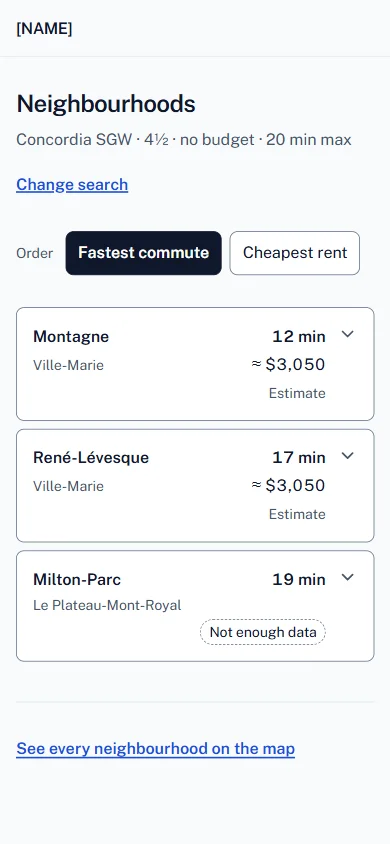
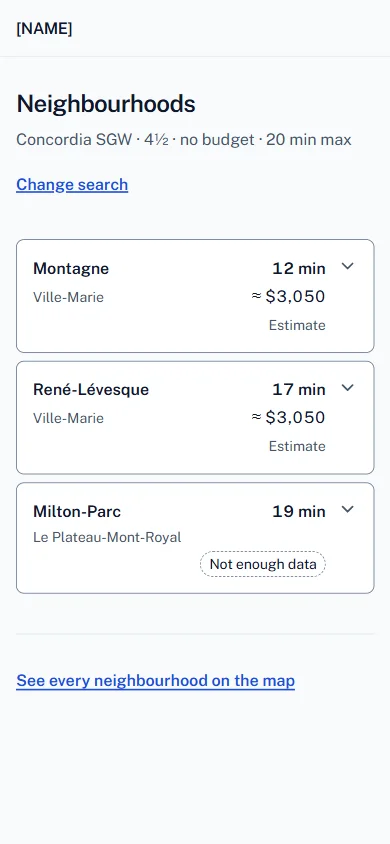
fix(web): pr-reviewer: commute order without a budget; no typed numbers
- No budget: no cheapest toggle, commute order even with sort=rent
  (decision 8; the form says "sort by commute only"). Test updated.
- 10% from one constant (SLIGHTLY_OVER_PCT); the 2 h limit from
  commute.json; access-adjustment minutes text in the strings file.
- Empty states: no "try a longer commute" at 60 min; own line when no
  commute data exists. Change search keeps the order.
- Tests for the hidden-count line (singular, plural) and the numbers
  passed into the texts; room fixture clearly fake (999).
- Decision citations corrected in shortlist.ts.

Claude-Session: https://claude.ai/code/session_01JJYy3w4mVdAEEmzzk44Lo2

diff --git a/web/app/(site)/results/page.tsx b/web/app/(site)/results/page.tsx
@@ -16,7 +16,7 @@ import {
   type SearchField,
   searchQuery,
 } from "@/lib/search";
-import { buildShortlist, type GroupKey, type ShortlistItem, type SortKey } from "@/lib/shortlist";
+import { buildShortlist, type GroupKey, SLIGHTLY_OVER_PCT, type ShortlistItem, type SortKey } from "@/lib/shortlist";
 import { strings } from "@/lib/strings";
 import SearchForm from "../SearchForm";
 import HoodCard, { type CardContext } from "./HoodCard";
@@ -111,7 +111,10 @@ function Group({
 }
 
 const HEADINGS: Record<GroupKey, string> = t.groups;
-const HINTS: Partial<Record<GroupKey, string>> = t.groupHint;
+const HINTS: Partial<Record<GroupKey, string>> = {
+  over: t.groupHint.over(SLIGHTLY_OVER_PCT),
+  noData: t.groupHint.noData,
+};
 
 async function ResultsBody({ searchParams }: Pick<PageProps<"/results">, "searchParams">) {
   const [commute, rent, hoods, params] = await Promise.all([loadCommute(), loadRent(), loadHoods(), searchParams]);
@@ -167,7 +170,9 @@ async function ResultsBody({ searchParams }: Pick<PageProps<"/results">, "search
       ctx={ctx}
     />
   );
-  const anyRent = list.groups.some((g) => g.key !== "noData");
+  // Cheapest first only with a budget and something to sort (decisions 1, 8).
+  const sortable = list.mode === "budget" && list.groups.some((g) => g.key !== "noData");
+  const longest = MAX_COMMUTE_MIN[MAX_COMMUTE_MIN.length - 1];
 
   return (
     <>
@@ -182,6 +187,7 @@ async function ResultsBody({ searchParams }: Pick<PageProps<"/results">, "search
           campuses={campuses.map((c) => ({ value: c.key, label: c.label }))}
           departure={departureWindow(commute.meta)}
           initial={s}
+          sort={sort}
           submitLabel={t.update}
           className="mt-4 mb-4 border-b border-line pb-8"
         />
@@ -194,7 +200,7 @@ async function ResultsBody({ searchParams }: Pick<PageProps<"/results">, "search
         </div>
       )}
 
-      {list.mode !== "room" && anyRent && <SortToggle search={s} sort={sort} />}
+      {sortable && <SortToggle search={s} sort={sort} />}
 
       {list.groups.map((g) => (
         <Group
@@ -209,14 +215,16 @@ async function ResultsBody({ searchParams }: Pick<PageProps<"/results">, "search
 
       {list.groups.length === 0 && (
         <div className="mt-8">
-          {list.withinCommute === 0 ? (
+          {list.withinCommute === 0 && list.tooFar === 0 ? (
+            <p className="font-semibold">{t.noCommuteData(campusLabel)}</p>
+          ) : list.withinCommute === 0 ? (
             <>
               <p className="font-semibold">{t.noneWithin(s.maxCommute, campusLabel)}</p>
-              <p className="mt-1">{t.tryLonger}</p>
+              {s.maxCommute !== longest && <p className="mt-1">{t.tryLonger}</p>}
             </>
           ) : (
             <>
-              <p className="font-semibold">{t.noneFits(list.withinCommute, s.maxCommute)}</p>
+              <p className="font-semibold">{t.noneFits(list.withinCommute, s.maxCommute, SLIGHTLY_OVER_PCT)}</p>
               <p className="mt-1">{t.tryBudget(list.withinCommute)}</p>
             </>
           )}

diff --git a/web/lib/strings/en.ts b/web/lib/strings/en.ts
@@ -71,7 +71,7 @@ export const en = {
       noData: "Not enough data",
     },
     groupHint: {
-      over: "Up to 10% over your budget.",
+      over: (pct: number) => `Up to ${pct}% over your budget.`,
       noData: "We can’t check these against your budget: there isn’t enough rent data for this size.",
     },
     showMore: (n: number) => `Show ${n} more`,
@@ -84,10 +84,11 @@ export const en = {
       `${n} ${n === 1 ? "neighbourhood is" : "neighbourhoods are"} not shown: there is no commute data to ${campus} for ${n === 1 ? "it" : "them"}.`,
     noneWithin: (max: number, campus: string) => `No neighbourhood is within ${max} min of ${campus}.`,
     tryLonger: "Try a longer max commute.",
-    noneFits: (n: number, max: number) =>
+    noCommuteData: (campus: string) => `There is no commute data to ${campus} for these neighbourhoods.`,
+    noneFits: (n: number, max: number, pct: number) =>
       n === 1
-        ? `The one neighbourhood within ${max} min costs more than 10% over your budget.`
-        : `All ${n} neighbourhoods within ${max} min cost more than 10% over your budget.`,
+        ? `The one neighbourhood within ${max} min costs more than ${pct}% over your budget.`
+        : `All ${n} neighbourhoods within ${max} min cost more than ${pct}% over your budget.`,
     tryBudget: (n: number) =>
       n === 1 ? "Try a higher budget, or leave it empty to see it." : "Try a higher budget, or leave it empty to see them all.",
     openMap: "See every neighbourhood on the map",
@@ -115,7 +116,10 @@ export const en = {
     accessIncluded: (signed: string) => `Includes a ${signed} access adjustment (platform to entrance).`,
     buildingAccess: (signed: string) => ` (incl. ${signed} access adjustment, platform to entrance)`,
     lowSample: (n: number) => `Based on only ${n} sample points.`,
-    manyUnreachable: (pct: string) => `${pct} of homes here are more than 2 h away by transit.`,
+    manyUnreachable: (pct: string, maxMin: number) =>
+      `${pct} of homes here are more than ${maxMin} min away by transit.`,
+    /** An access adjustment: "+1.9 min", "−2.4 min". */
+    signedMin: (adj: number) => `${adj > 0 ? "+" : "−"}${Math.abs(adj)} min`,
     commuteSource:
       "Travel times are derived from STM, REM and exo schedules (CC BY 4.0). Schedules don’t include delays or outages.",
     rentHeading: (size: string) => `Rent, ${size}`,

diff --git a/web/lib/shortlist.ts b/web/lib/shortlist.ts
@@ -1,5 +1,5 @@
 // The shortlist (M4.2): which neighbourhoods a search shows, in which group, in which order.
-// Rules: docs/ROADMAP.md, "M4 decisions" 1–5 and 7–8. Pure functions, no text: wording lives
+// Rules: docs/ROADMAP.md, "M4 decisions" 1–5 and 8. Pure functions, no text: wording lives
 // in lib/strings.
 
 import type { CommuteFile } from "./commute";
@@ -14,6 +14,9 @@ export interface Hood {
 }
 
 export type SortKey = "commute" | "rent";
+
+/** "Slightly over budget" reaches this many percent above the budget (decision 2). */
+export const SLIGHTLY_OVER_PCT = 10;
 
 /** "fits" / "over" / "noData" with a budget; "all" without one, and for rooms. */
 export type GroupKey = "fits" | "over" | "all" | "noData";
@@ -45,12 +48,13 @@ export interface Shortlist {
   roomWarning: boolean;
 }
 
-/** Where a rent goes against a budget. `rent` is the rounded rent the user sees. "over" is
- * budget < rent ≤ budget × 1.10, computed in integers (decision 7: rent·10 ≤ budget·11). */
+/** Where a rent goes against a budget (decision 2). `rent` is the rounded rent the user sees.
+ * "over" is budget < rent ≤ budget × 1.10, computed in integers (rent·100 ≤ budget·110) so
+ * no float rounding can move the edge. */
 export function rentGroup(rent: number | null, budget: number): "fits" | "over" | "hidden" | "noData" {
   if (rent === null) return "noData";
   if (rent <= budget) return "fits";
-  if (rent * 10 <= budget * 11) return "over";
+  if (rent * 100 <= budget * (100 + SLIGHTLY_OVER_PCT)) return "over";
   return "hidden";
 }
 
@@ -117,9 +121,9 @@ export function buildShortlist(
 
   const order: GroupKey[] = mode === "budget" ? ["fits", "over", "noData"] : ["all"];
   for (const key of order) {
-    // Rooms and "not enough data" have no rent to sort by: commute only (decisions 3, 5). In
-    // one no-budget list sorted by rent, unknown rents come last (byRent).
-    const cmp = sort === "rent" && !room && key !== "noData" ? byRent : byCommute;
+    // Cheapest first only with a budget (decision 1). Rooms, "not enough data" and searches
+    // without a budget sort by commute only (decisions 3, 5, 8).
+    const cmp = sort === "rent" && mode === "budget" && key !== "noData" ? byRent : byCommute;
     if (groups[key].length) out.groups.push({ key, items: groups[key].sort(cmp) });
   }
   return out;

diff --git a/web/lib/shortlist.test.ts b/web/lib/shortlist.test.ts
@@ -29,7 +29,7 @@ function rentEntry(estimate: number | null, label: LabelKey = estimate === null 
 /** One quartier: [id, median commute to Z (or null / "over"), 3½ rent (or null)]. */
 type Row = [id: string, commute: number | null | "over" | "absent", rent: number | null];
 
-function fixture(rows: Row[], roomEstimate = 725) {
+function fixture(rows: Row[], roomEstimate = 999) {
   const hoods: Hood[] = rows.map(([id]) => ({ id, name: `Quartier ${id}`, borough: "Borough Y" }));
   const commute = {
     meta: { max_trip_min: 120 },
@@ -111,8 +111,8 @@ describe("buildShortlist", () => {
     expect(ids(s)).toEqual({ all: ["A", "B", "C"] });
     expect(s.groups[0].items[0]).toMatchObject({ id: "A", rent: null, label: "none" });
     expect(s.hiddenOverBudget).toBe(0);
-    // Cheapest first: an unknown rent can't be ranked, so it goes last.
-    expect(ids(buildShortlist(hoods, commute, rent, search({ budget: null }), "rent"))).toEqual({ all: ["C", "B", "A"] });
+    // No budget means commute order (decision 8), even if sort=rent is in the URL.
+    expect(ids(buildShortlist(hoods, commute, rent, search({ budget: null }), "rent"))).toEqual({ all: ["A", "B", "C"] });
   });
 
   it("is a hard max-commute filter for everyone, on the minutes shown (rounded)", () => {
@@ -173,14 +173,14 @@ describe("buildShortlist", () => {
       ["B", 10, null],
       ["C", 20, 900],
     ]);
-    const low = buildShortlist(hoods, commute, rent, search({ size: "room", budget: 700 }), "rent");
+    const low = buildShortlist(hoods, commute, rent, search({ size: "room", budget: 975 }), "rent");
     expect(low.mode).toBe("room");
     expect(ids(low)).toEqual({ all: ["B", "C", "A"] }); // every one, by commute, "rent" sort ignored
     expect(low.roomWarning).toBe(true);
-    expect(low.roomEstimate).toBe(725);
+    expect(low.roomEstimate).toBe(999);
     expect(low.hiddenOverBudget).toBe(0);
 
-    expect(buildShortlist(hoods, commute, rent, search({ size: "room", budget: 725 }), "commute").roomWarning).toBe(false);
+    expect(buildShortlist(hoods, commute, rent, search({ size: "room", budget: 999 }), "commute").roomWarning).toBe(false);
     expect(buildShortlist(hoods, commute, rent, search({ size: "room", budget: null }), "commute").roomWarning).toBe(false);
   });
 

diff --git a/web/app/(site)/results/HoodCard.tsx b/web/app/(site)/results/HoodCard.tsx
@@ -28,10 +28,6 @@ export interface CardContext {
   room: boolean;
 }
 
-function signedMin(adj: number): string {
-  return `${adj > 0 ? "+" : "−"}${Math.abs(adj)} min`;
-}
-
 function CommuteDetail({ r, ctx, minutes }: { r: CampusResult; ctx: CardContext; minutes: number }) {
   const max = ctx.commuteMeta.max_trip_min;
   const dests = ctx.campusMeta.destinations;
@@ -43,7 +39,7 @@ function CommuteDetail({ r, ctx, minutes }: { r: CampusResult; ctx: CardContext;
     for (const d of dests) {
       const b = r.by_destination[d.id];
       if (!b) continue;
-      const access = d.access_adjustment_min ? t.buildingAccess(signedMin(d.access_adjustment_min)) : "";
+      const access = d.access_adjustment_min ? t.buildingAccess(t.signedMin(d.access_adjustment_min)) : "";
       const time = formatTime(b, "median", max) + access;
       // A building that is never the faster one just shows its time.
       lines.push(
@@ -53,11 +49,11 @@ function CommuteDetail({ r, ctx, minutes }: { r: CampusResult; ctx: CardContext;
       );
     }
   } else if (dests[0]?.access_adjustment_min) {
-    lines.push(t.accessIncluded(signedMin(dests[0].access_adjustment_min)));
+    lines.push(t.accessIncluded(t.signedMin(dests[0].access_adjustment_min)));
   }
   if (r.flags.includes("low_sample")) lines.push(t.lowSample(r.n_points));
   if (r.flags.includes("many_unreachable") && r.unreachable_share !== null) {
-    lines.push(t.manyUnreachable(`${Math.round(r.unreachable_share * 100)}%`));
+    lines.push(t.manyUnreachable(`${Math.round(r.unreachable_share * 100)}%`, max));
   }
   return (
     <section>

diff --git a/web/lib/strings/strings.test.ts b/web/lib/strings/strings.test.ts
@@ -30,6 +30,23 @@ describe("strings", () => {
     expect(strings.results.invalid.maxCommute([15, 90])).toBe("Pick a max commute: 15 or 90 min.");
   });
 
+  it("says how many neighbourhoods are hidden for missing commute data (decision 4)", () => {
+    expect(strings.results.hiddenNoCommute(1, "Z")).toBe(
+      "1 neighbourhood is not shown: there is no commute data to Z for it.",
+    );
+    expect(strings.results.hiddenNoCommute(2, "Z")).toBe(
+      "2 neighbourhoods are not shown: there is no commute data to Z for them.",
+    );
+  });
+
+  it("takes limits and percentages as numbers, never typed", () => {
+    expect(strings.detail.manyUnreachable("15%", 120)).toContain("more than 120 min");
+    expect(strings.results.groupHint.over(10)).toBe("Up to 10% over your budget.");
+    expect(strings.results.noneFits(2, 30, 10)).toContain("more than 10% over");
+    expect(strings.detail.signedMin(1.9)).toBe("+1.9 min");
+    expect(strings.detail.signedMin(-2.4)).toBe("−2.4 min");
+  });
+
   it("keeps the owner's first-screen wording", () => {
     expect(strings.home.title).toBe("Find where to live in Montréal without a car");
     expect(strings.home.intro(91)).toBe(

diff --git a/web/app/(site)/SearchForm.tsx b/web/app/(site)/SearchForm.tsx
@@ -4,6 +4,7 @@
 import Form from "next/form";
 import { formatDollars } from "@/lib/rent";
 import { BUDGET_EXAMPLE, BUDGET_STEP, MAX_COMMUTE_MIN, SEARCH_SIZES, type Search } from "@/lib/search";
+import type { SortKey } from "@/lib/shortlist";
 import { strings } from "@/lib/strings";
 
 const t = strings.form;
@@ -63,17 +64,21 @@ export default function SearchForm({
   campuses,
   departure,
   initial,
+  sort = "commute",
   submitLabel = strings.home.submit,
   className = "mt-8",
 }: {
   campuses: Option[];
   departure: { start: string; end: string };
   initial?: Search;
+  /** Kept when the search changes from the results page. */
+  sort?: SortKey;
   submitLabel?: string;
   className?: string;
 }) {
   return (
     <Form action="/results" className={`flex flex-col gap-8 ${className}`}>
+      {sort !== "commute" && <input type="hidden" name="sort" value={sort} />}
       <Choice
         name="campus"
         legend={t.campus.legend}
